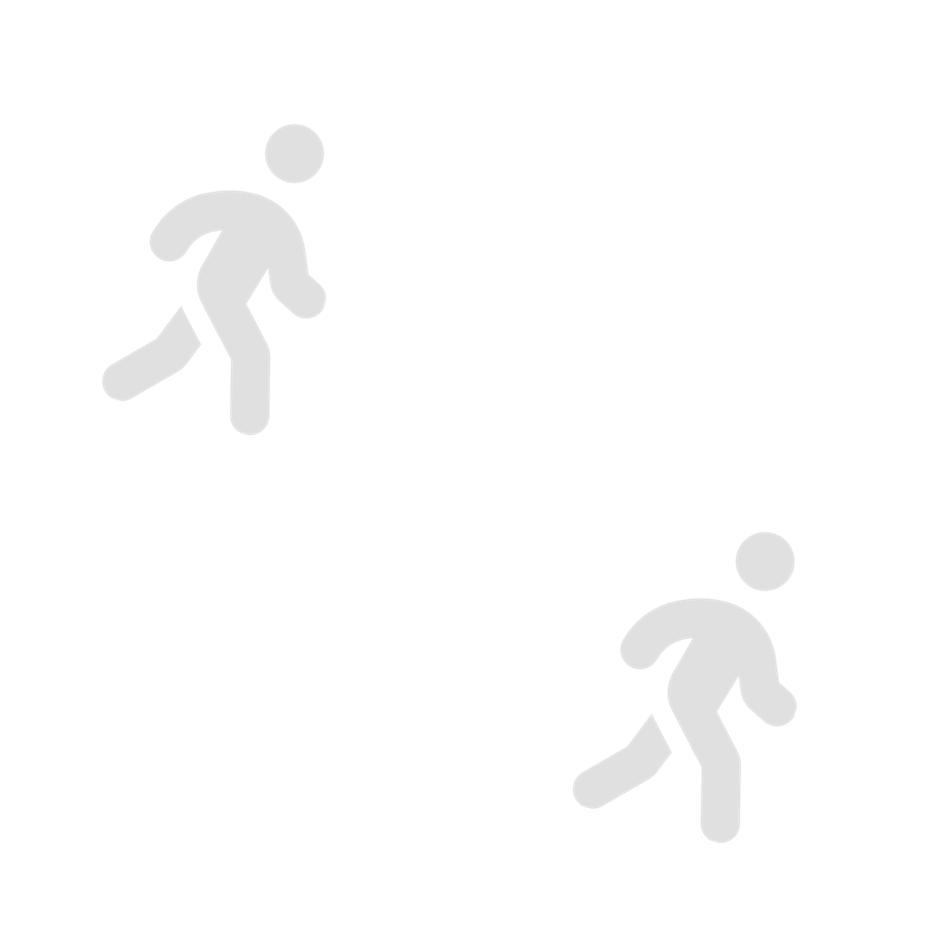
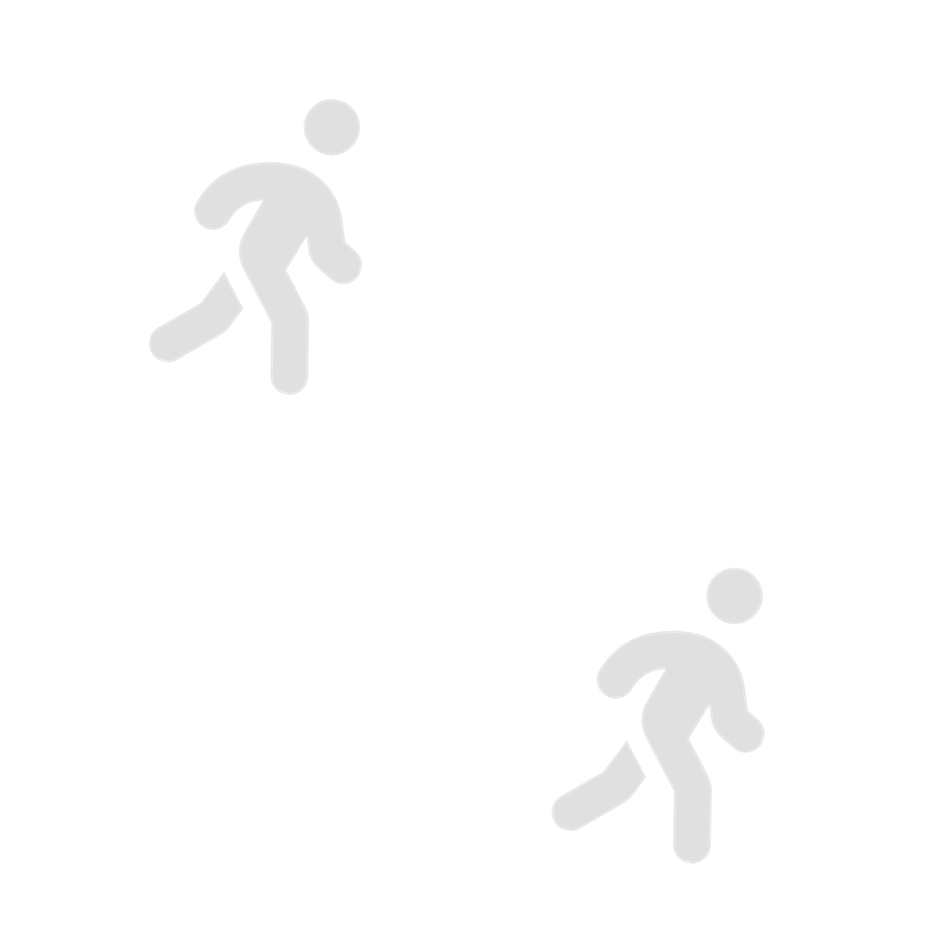
sfondo aggiunto a colonna dx

Changed region(s): [[0.0926, 0.0923, 0.4011, 0.4613], [0.617, 0.5536, 0.8638, 0.9226], [0.5862, 0.7996, 0.6787, 0.8918]]

diff --git a/public/html/editor.html b/public/html/editor.html
@@ -193,19 +193,7 @@
 
         <!-- Third Column -->
         <div class="col-md-3" id="col-dx">
-          <div class="row" id="row-automatici" style="margin-bottom: 30vh">
-            Servizi automatici:<br>
-            Boh<br>
-            Boh2<br>
-            Taxi
-          </div>
-          <div class="row border-top" id="row-quota">
-            Quota residua:<br>
-            giorno: 34<br>
-            settimana: 124<br>
-            mese: 543<br>
-            Stai sforando, sgancia 23,45 euri
-          </div>
+
         </div>
   <!--</form>-->
   </form>
@@ -231,7 +219,9 @@
 
     // Rimuovi tutte le classi esistenti da col-sx
     var colSx = document.getElementById("col-sx");
+    var colDx = document.getElementById("col-dx");
     colSx.classList.remove("col-sx-utenti", "col-sx-canali", "col-sx-bacheca");
+    colDx.classList.remove("col-sx-utenti", "col-sx-canali", "col-sx-bacheca");
 
     // Nascondi tutti i campi inizialmente
     document.getElementById("campo-canali").hidden = true;
@@ -253,6 +243,8 @@
       array_dest_utenti = [];
       document.getElementById("icona-canali").classList.add("attiva");
       colSx.classList.add("col-sx-canali");
+      colDx.classList.add("col-sx-canali");
+
     } else if (tipo === "utenti") {
       document.getElementById("campo-utenti").hidden = false;
       document.getElementById("lista_destinatari").hidden = true;
@@ -260,6 +252,8 @@
       array_dest_canali = [];
       document.getElementById("icona-utenti").classList.add("attiva");
       colSx.classList.add("col-sx-utenti");
+      colDx.classList.add("col-sx-utenti");
+
     } else if (tipo === "bacheca") {
       document.getElementById("lista_destinatari").hidden = true;
       document.getElementById("campo-bacheca").hidden = false;
@@ -268,6 +262,8 @@
       array_dest_canali = [];
       document.getElementById("icona-bacheca").classList.add("attiva");
       colSx.classList.add("col-sx-bacheca");
+      colDx.classList.add("col-sx-bacheca");
+
     }
   }
 

diff --git a/public/css/editor.css b/public/css/editor.css
@@ -7,25 +7,20 @@
   padding: 16px 20px 20px 20px;
   overflow: auto;
   background-color: #f2f2f2;
+  background-size: 130px;
   background-position: center center;
 }
 
 .col-sx-utenti {
   background-image: url('Immagine1.png');
-  background-size: 120px;
-
 }
 
 .col-sx-canali {
   background-image: url('Immagine2.png');
-  background-size: 130px;
-
 }
 
 .col-sx-bacheca {
   background-image: url('Immagine3.png');
-  background-size: 130px;
-
 }
 
 
@@ -343,11 +338,14 @@
 
 #col-dx {
   position: fixed;
-  top: 50px;
+  top: 56px;
   right: 0;
   height: 100%;
   background-color: #f2f2f2;
   width: 25%;
   padding: 20px;
   overflow: auto;
+  background-color: #f2f2f2;
+  background-size: 130px;
+  background-position: center center;
 }
